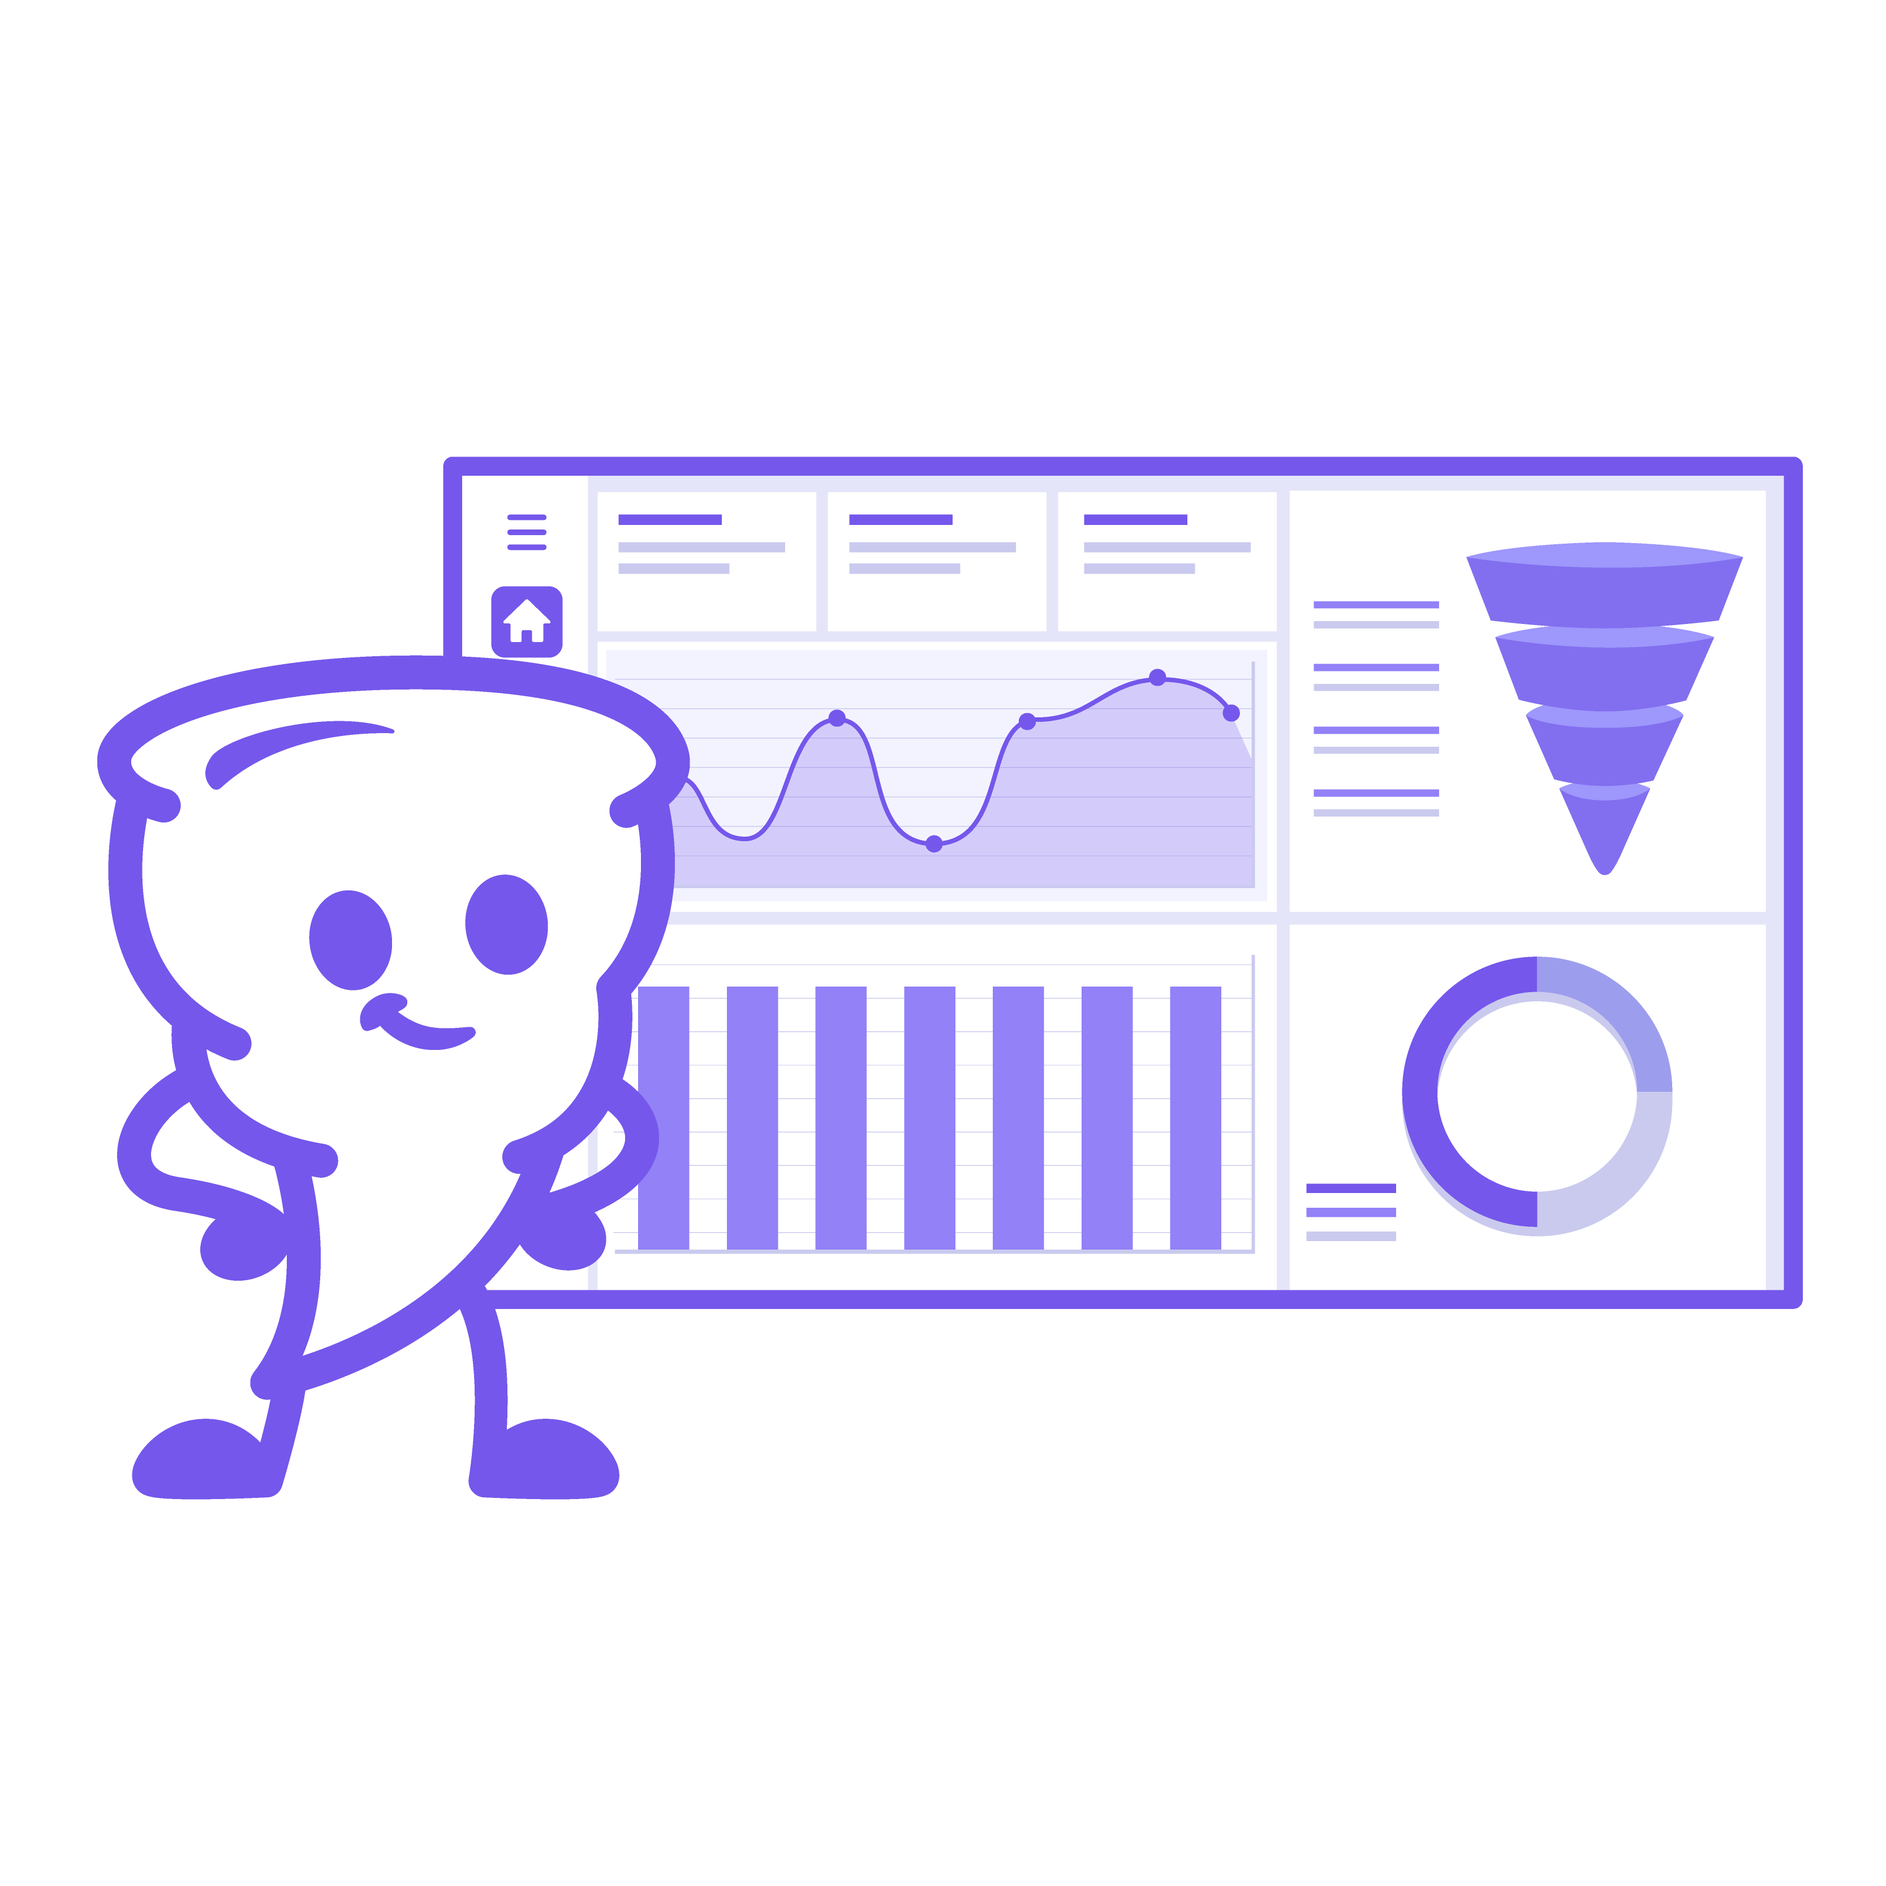
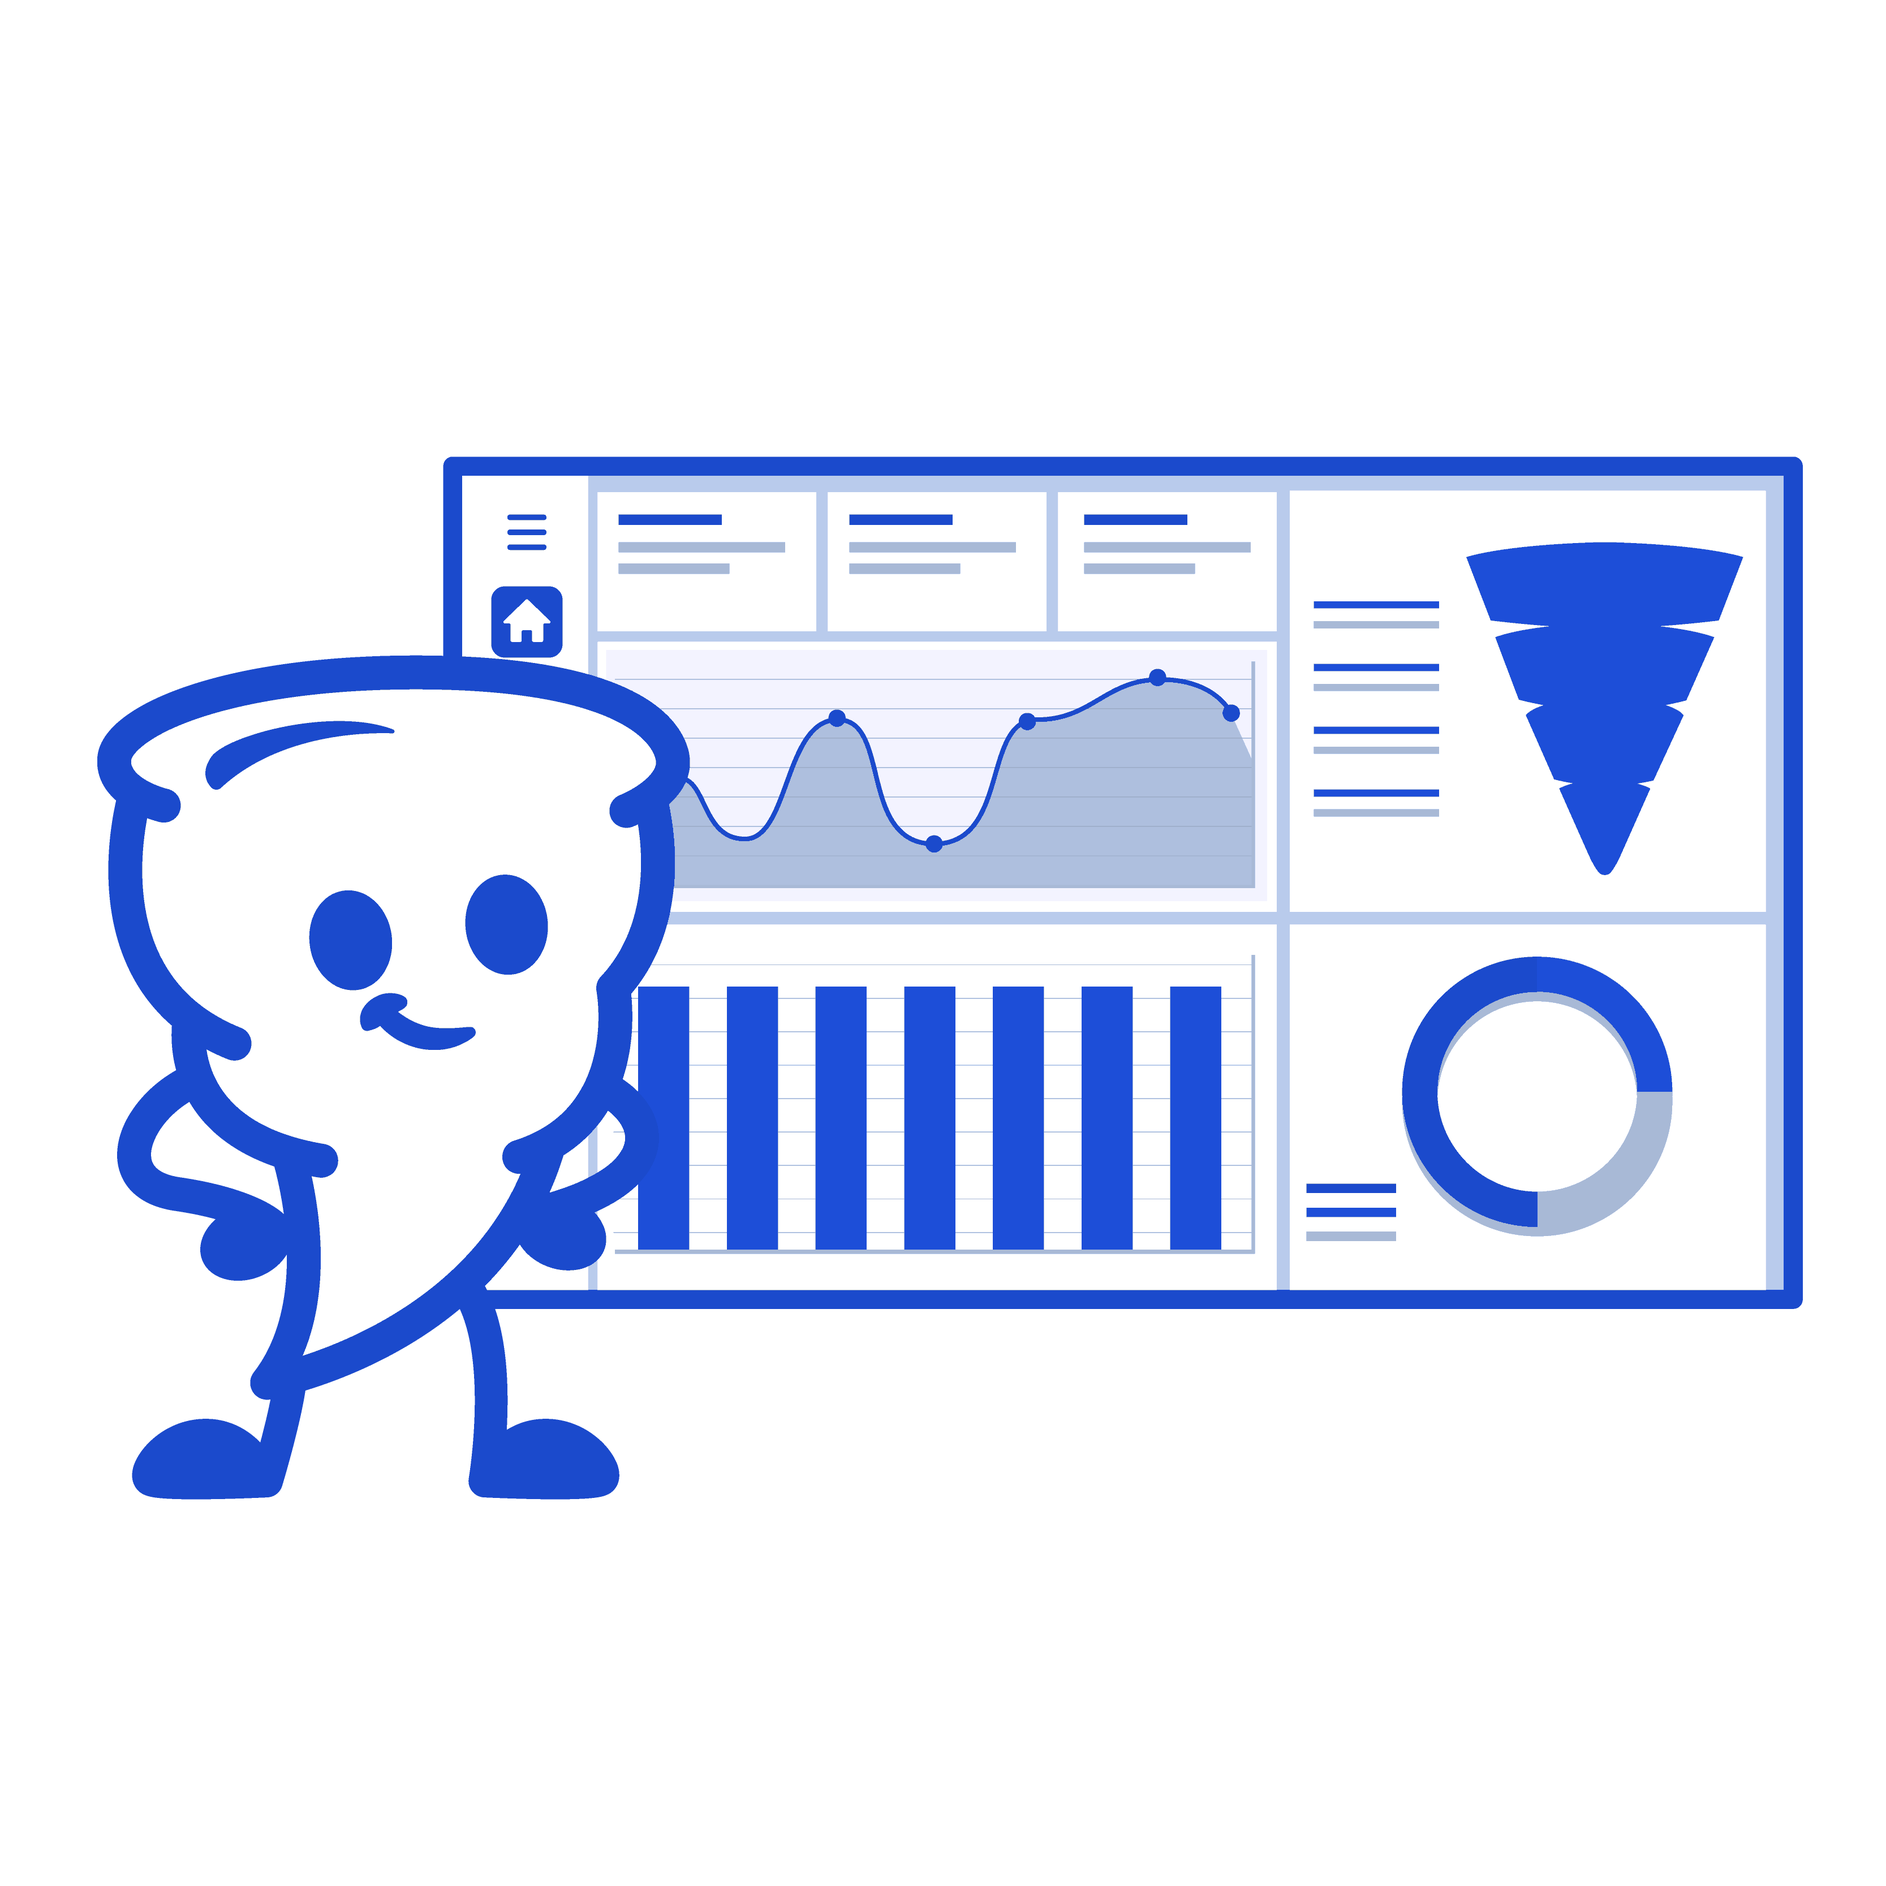
style: fix remaining purple across site + copy tweak
- Recolor Drew Price profile photo background to navy
- Recolor manifesto mascot/dashboard illustration to navy
- Fix Concierge pricing gradient: #5a35b5 (purple) -> #1E3A8A (dark navy)
- Remove "more" from hero: "Turn free users into paying customers"
- Clean up duplicate font-serif classes from sed artifact (15 files)

Changed region(s): [[0.0312, 0.2184, 0.967, 0.811], [0.156, 0.4679, 0.2496, 0.5615]]

diff --git a/src/pages/Library.tsx b/src/pages/Library.tsx
@@ -523,7 +523,7 @@ const Library: React.FC = () => {
       <section className="py-16 md:py-20 lg:py-24 bg-slate-50">
         <div className="container mx-auto px-4 max-w-6xl">
           <div className="text-center mb-12">
-            <h2 className="text-2xl sm:text-3xl md:text-4xl font-serif font-serif font-serif font-semibold text-slate-900 mb-4">
+            <h2 className="text-2xl sm:text-3xl md:text-4xl font-serif font-semibold text-slate-900 mb-4">
               Flows mapped to business goals.
             </h2>
             <p className="text-slate-500 max-w-2xl mx-auto leading-relaxed" style={{ fontSize: "22px" }}>
@@ -560,7 +560,7 @@ const Library: React.FC = () => {
       <section className="py-16 md:py-20 lg:py-24 bg-white overflow-hidden">
         <div className="container mx-auto px-4 max-w-6xl">
           <div className="text-center mb-12">
-            <h2 className="text-2xl sm:text-3xl md:text-4xl font-serif font-serif font-serif font-semibold text-slate-900 mb-4">
+            <h2 className="text-2xl sm:text-3xl md:text-4xl font-serif font-semibold text-slate-900 mb-4">
               Find the perfect email in seconds.
             </h2>
             <p className="text-slate-500 max-w-2xl mx-auto leading-relaxed" style={{ fontSize: "22px" }}>
@@ -618,7 +618,7 @@ const Library: React.FC = () => {
       ══════════════════════════════════════════════════════════════════════ */}
       <section className="py-16 md:py-20 lg:py-24 bg-slate-50 overflow-hidden">
         <div className="container mx-auto px-4 max-w-6xl mb-10 text-center">
-          <h2 className="text-2xl sm:text-3xl md:text-4xl font-serif font-serif font-serif font-semibold text-slate-900 mb-4">
+          <h2 className="text-2xl sm:text-3xl md:text-4xl font-serif font-semibold text-slate-900 mb-4">
             Learn how top SaaS brands grow.
           </h2>
           <p className="text-slate-500 max-w-2xl mx-auto leading-relaxed" style={{ fontSize: "22px" }}>
@@ -676,7 +676,7 @@ const Library: React.FC = () => {
       <section className="py-16 md:py-20 lg:py-24 bg-white">
         <div className="container mx-auto px-4 max-w-6xl">
           <div className="text-center mb-12">
-            <h2 className="text-2xl sm:text-3xl md:text-4xl font-serif font-serif font-serif font-semibold text-slate-900 mb-4">
+            <h2 className="text-2xl sm:text-3xl md:text-4xl font-serif font-semibold text-slate-900 mb-4">
               See every email, in real order.
             </h2>
             <p className="text-slate-500 max-w-2xl mx-auto leading-relaxed" style={{ fontSize: "22px" }}>
@@ -751,7 +751,7 @@ const Library: React.FC = () => {
           {/* Browser header */}
           <div className="flex flex-col sm:flex-row sm:items-center justify-between gap-4 mb-8">
             <div>
-              <h2 className="text-2xl sm:text-3xl font-serif font-serif font-semibold text-slate-900">
+              <h2 className="text-2xl sm:text-3xl font-serif font-semibold text-slate-900">
                 {activeFilterLabel ? `Emails — ${activeFilterLabel}` : "Browse all emails"}
               </h2>
               {!loading && (
@@ -881,7 +881,7 @@ const Library: React.FC = () => {
       <section className="py-16 md:py-20 lg:py-24 bg-slate-50">
         <div className="container mx-auto px-4">
           <div className="text-center max-w-4xl mx-auto mb-8">
-            <h2 className="text-2xl sm:text-3xl md:text-4xl font-serif font-serif font-serif font-semibold text-slate-900 mb-4">
+            <h2 className="text-2xl sm:text-3xl md:text-4xl font-serif font-semibold text-slate-900 mb-4">
               Start exploring.
             </h2>
             <p className="text-slate-500 max-w-2xl mx-auto leading-relaxed" style={{ fontSize: "22px" }}>

diff --git a/src/pages/Manifesto.tsx b/src/pages/Manifesto.tsx
@@ -24,7 +24,7 @@ const ArrowBullet: React.FC<ArrowBulletProps> = ({ title, description }) => (
 
 const ManifestoSection: React.FC<{ title: string; items: ArrowBulletProps[] }> = ({ title, items }) => (
   <section className="mb-20">
-    <h2 className="text-2xl lg:text-3xl font-serif font-serif font-semibold text-slate-900 mb-8">{title}</h2>
+    <h2 className="text-2xl lg:text-3xl font-serif font-semibold text-slate-900 mb-8">{title}</h2>
     <div className="space-y-6">
       {items.map((item, i) => (
         <ArrowBullet key={i} title={item.title} description={item.description} />
@@ -176,7 +176,7 @@ const Manifesto: React.FC = () => {
           <section className="mb-20">
             <div className="grid grid-cols-1 lg:grid-cols-2 gap-12 items-center">
               <div>
-                <h2 className="text-2xl lg:text-3xl font-serif font-serif font-semibold text-slate-900 mb-8">Who we're for</h2>
+                <h2 className="text-2xl lg:text-3xl font-serif font-semibold text-slate-900 mb-8">Who we're for</h2>
                 <div className="space-y-5">
                   <ArrowBullet title="Founders who want activation, not just signups." />
                   <ArrowBullet title="Teams tired of building onboarding flows manually." />

diff --git a/src/pages/Index.tsx b/src/pages/Index.tsx
@@ -195,8 +195,8 @@ const Index = () => {
         <section id="email-sequence-generator-section" className="py-16 md:py-20 lg:py-24 container mx-auto px-6">
           <div className="max-w-5xl mx-auto">
             <div className="text-center mb-12">
-              <h2 className="text-2xl sm:text-3xl md:text-4xl font-serif font-serif font-serif font-semibold text-slate-900 mb-4">
-                Turn more free users into paying customers automatically
+              <h2 className="text-2xl sm:text-3xl md:text-4xl font-serif font-semibold text-slate-900 mb-4">
+                Turn free users into paying customers automatically
               </h2>
               <p className="text-slate-500 max-w-2xl mx-auto leading-relaxed" style={{ fontSize: "22px" }}>
                 Enter your website and our agent will generate your onboarding sequence in minutes.

diff --git a/src/components/homepage/BrandInspirationSection.tsx b/src/components/homepage/BrandInspirationSection.tsx
@@ -31,7 +31,7 @@ export const BrandInspirationSection: React.FC = () => {
     <section className="py-16 md:py-20 lg:py-24 bg-white overflow-hidden">
       <div className="container mx-auto px-4">
         <div className="text-center mb-12">
-          <h2 className="text-2xl sm:text-3xl md:text-4xl font-serif font-serif font-serif font-semibold text-slate-900 mb-4">
+          <h2 className="text-2xl sm:text-3xl md:text-4xl font-serif font-semibold text-slate-900 mb-4">
             Inspired by the best SaaS onboarding programs
           </h2>
           <p className="text-slate-500 max-w-2xl mx-auto leading-relaxed">

diff --git a/src/components/homepage/FAQSection.tsx b/src/components/homepage/FAQSection.tsx
@@ -42,7 +42,7 @@ export const FAQSection: React.FC = () => {
     <section className="py-16 md:py-20 lg:py-24 bg-slate-50 relative overflow-hidden">
       <div className="container mx-auto px-4 max-w-6xl relative">
         <div className="text-center mb-12">
-          <h2 className="text-2xl sm:text-3xl md:text-4xl font-serif font-serif font-serif font-semibold text-slate-900 mb-4">
+          <h2 className="text-2xl sm:text-3xl md:text-4xl font-serif font-semibold text-slate-900 mb-4">
             Your questions, answered
           </h2>
           <p className="text-slate-500 max-w-2xl mx-auto leading-relaxed">

diff --git a/src/components/homepage/ROISectionHomepage.tsx b/src/components/homepage/ROISectionHomepage.tsx
@@ -118,7 +118,7 @@ export const ROISectionHomepage: React.FC<ROISectionHomepageProps> = ({
     <section className="py-16 md:py-20 lg:py-24 bg-slate-50">
       <div className="container mx-auto px-4">
         <div className="text-center mb-12">
-          <h2 className="text-2xl sm:text-3xl md:text-4xl font-serif font-serif font-serif font-semibold text-slate-900 mb-4">
+          <h2 className="text-2xl sm:text-3xl md:text-4xl font-serif font-semibold text-slate-900 mb-4">
             What better onboarding could be worth
           </h2>
           <p className="text-slate-500 max-w-2xl mx-auto leading-relaxed">

diff --git a/src/components/homepage/HowItWorksSection.tsx b/src/components/homepage/HowItWorksSection.tsx
@@ -36,7 +36,7 @@ export const HowItWorksSection: React.FC = () => {
       <div className="container mx-auto px-4 max-w-7xl relative z-10">
         <div className="text-center mb-10 md:mb-20">
           <p className="text-xs font-semibold tracking-widest text-indigo-500 uppercase mb-4">How it works</p>
-          <h2 className="text-2xl sm:text-3xl md:text-4xl font-serif font-serif font-serif font-semibold text-slate-900 mb-4">
+          <h2 className="text-2xl sm:text-3xl md:text-4xl font-serif font-semibold text-slate-900 mb-4">
             Drive more paid users in 3 steps
           </h2>
         </div>

diff --git a/src/components/homepage/BenefitsSection.tsx b/src/components/homepage/BenefitsSection.tsx
@@ -37,7 +37,7 @@ export const BenefitsSection: React.FC = () => {
     <section className="py-16 md:py-20 lg:py-24 bg-white">
       <div className="container mx-auto px-4 max-w-6xl">
         <div className="text-center mb-12">
-          <h2 className="text-2xl sm:text-3xl md:text-4xl font-serif font-serif font-serif font-semibold text-slate-900 mb-4">
+          <h2 className="text-2xl sm:text-3xl md:text-4xl font-serif font-semibold text-slate-900 mb-4">
             From signup to upgrade on autopilot
           </h2>
           <p className="text-slate-500 max-w-2xl mx-auto leading-relaxed">

diff --git a/src/components/homepage/OnboardingPainSection.tsx b/src/components/homepage/OnboardingPainSection.tsx
@@ -34,7 +34,7 @@ export const OnboardingPainSection: React.FC = () => {
   return (
     <section className="py-16 md:py-20 lg:py-24 bg-slate-50">
       <div className="container mx-auto px-4 max-w-3xl text-center mb-12">
-        <h2 className="text-2xl sm:text-3xl md:text-4xl font-serif font-serif font-serif font-semibold text-slate-900 mb-4 leading-tight">
+        <h2 className="text-2xl sm:text-3xl md:text-4xl font-serif font-semibold text-slate-900 mb-4 leading-tight">
           50% of users who sign up never come back
         </h2>
         <p className="text-slate-500 leading-relaxed">

diff --git a/src/components/homepage/TestimonialSection.tsx b/src/components/homepage/TestimonialSection.tsx
@@ -7,7 +7,7 @@ export const TestimonialSection: React.FC = () => {
     <section className="py-16 md:py-20 lg:py-24 bg-slate-50">
       <div className="container mx-auto px-4 max-w-5xl">
         <div className="text-center mb-12">
-          <h2 className="text-2xl sm:text-3xl md:text-4xl font-serif font-serif font-serif font-semibold text-slate-900 mb-4">
+          <h2 className="text-2xl sm:text-3xl md:text-4xl font-serif font-semibold text-slate-900 mb-4">
             Trusted by SaaS growth leaders
           </h2>
           <p className="text-slate-500 max-w-2xl mx-auto leading-relaxed">

diff --git a/src/pages/Pricing.tsx b/src/pages/Pricing.tsx
@@ -186,7 +186,7 @@ const Pricing: React.FC = () => {
             {/* ── Right: Concierge ── */}
             <div
               className="rounded-2xl shadow-sm flex flex-col overflow-hidden"
-              style={{ background: "linear-gradient(145deg, #1D4ED8 0%, #5a35b5 100%)" }}
+              style={{ background: "linear-gradient(145deg, #1D4ED8 0%, #1E3A8A 100%)" }}
             >
               <div className="px-8 pt-8 pb-6 border-b border-white/10">
                 <p className="text-xs font-semibold text-white/50 uppercase tracking-widest mb-1">Done for you</p>

diff --git a/src/components/homepage/HeroSection.tsx b/src/components/homepage/HeroSection.tsx
@@ -20,7 +20,7 @@ export const HeroSection: React.FC<HeroSectionProps> = ({
       <div className="container mx-auto px-4">
         <div className="text-center max-w-4xl mx-auto">
           <h1 className="text-3xl sm:text-4xl md:text-5xl lg:text-6xl font-serif font-semibold text-slate-900 mb-6 leading-tight">
-            Turn more free users into paying customers{" "}
+            Turn free users into paying customers{" "}
             <span className="italic" style={{ color: "#1D4ED8" }}>automatically</span>
           </h1>
 
